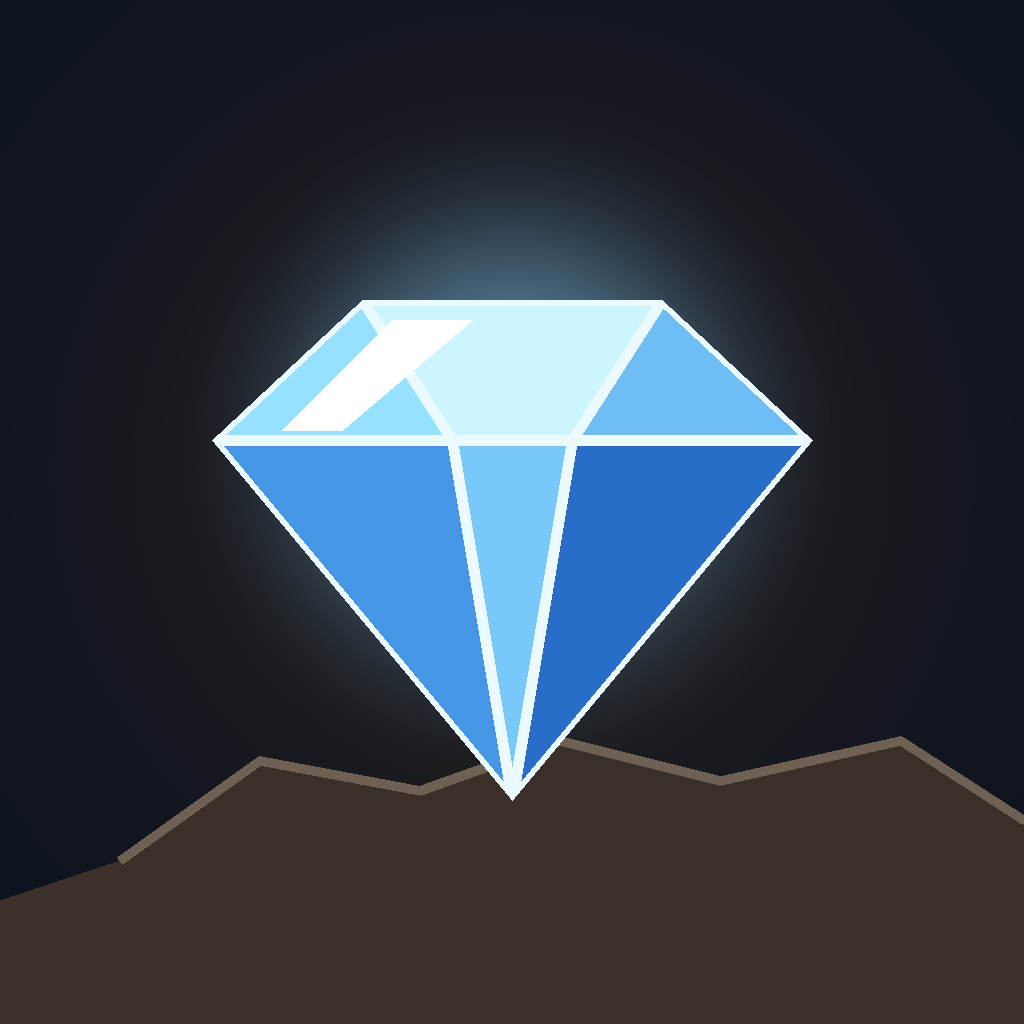
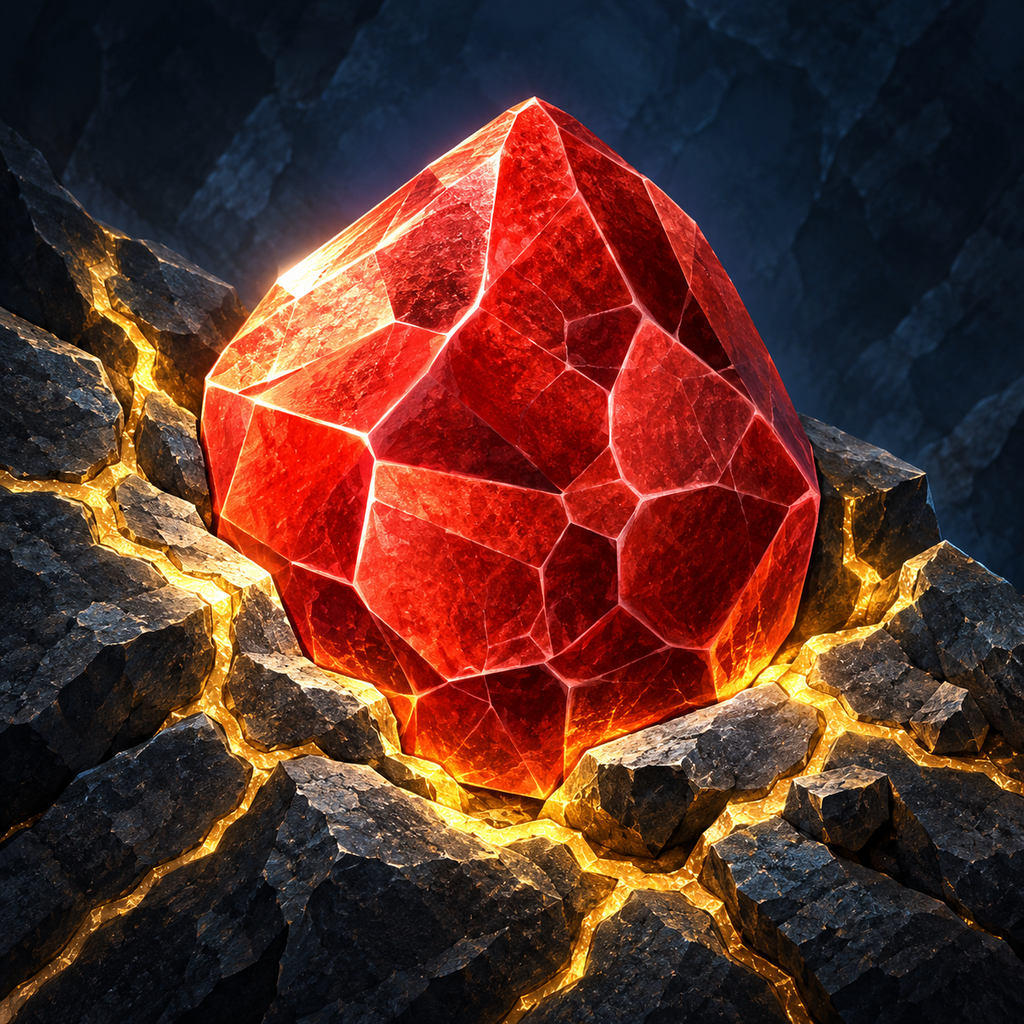
Новая иконка приложения: рубин в скале с золотыми жилами; витрина: ключи only= и clean

diff --git a/CLAUDE.md b/CLAUDE.md
@@ -172,6 +172,8 @@
   грязь из blockers_kit, жеода и находка — блоки из zones, находка своей формы `BoardSprites.find_shape`); газ — живой
   шейдер поля (`Level.gas_icon`), в полёте — статичный клуб. Жетон ходов рисуется кругом сам, по центру строки.
   Не проверено на iPhone (газ-иконка — свой шейдер, не plain_material).
+- 25.10, иконка приложения (`godot/icon.png`, она же для iOS): рубин в скале с золотыми жилами, нарисована GPT
+  (Codex `$imagegen`) по листу наших фишек. Витрина умеет один образец крупно: `spec_gallery -- set=11 only=1 clean`.
 - Перевести в мраморный стиль: окна (победа/поражение/раскрытие находки — `autoload/overlay.gd`, `screens/reveal.gd`),
   главный экран (`screens/home.gd`, `mine_scene.gd`), депо, музей; эффекты взрывов (`game/fx_layer.gd`).
 - Старое (можно удалять со временем): `board3d.gd`, `gem_cut.gd`, `piece_form.gd`, `board_gem/board_piece.gdshader`,
